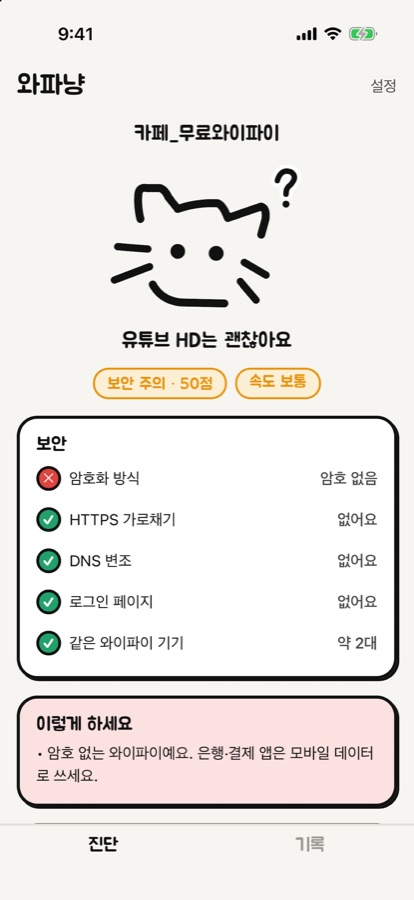
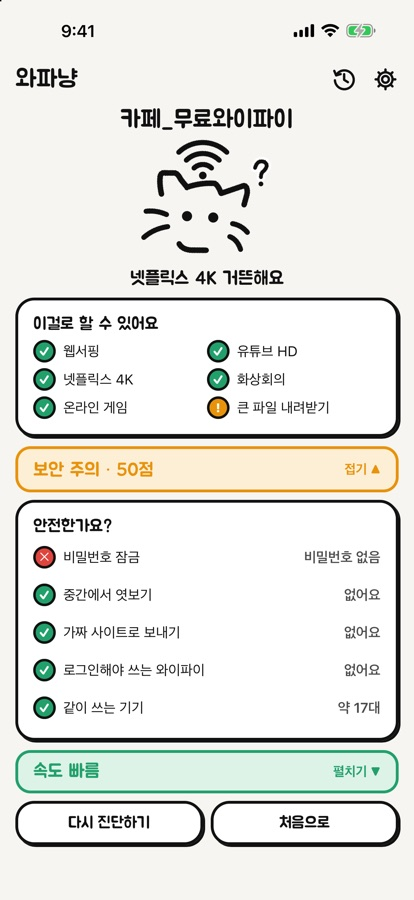
fix(wapanyang): 고양이와 화면 캡처를 앱 1.1.1 그림으로 바꾼다
- Mascot: 머리 위 와이파이 막대, 거친 마커, 물결 수염, 짧은 턱(앱 mascotSvg.ts 와 같은 좌표)
- 첫 화면 데모: 속도에 따라 막대 수가 바뀐다(1·2·3칸)
- 화면 캡처 4장을 새 화면(첫 화면·검사 중·결과·카페)으로 바꾸고 옛 speed.jpg 를 지운다
- 문의 문구의 "아직 스토어에 안 올라갔다"를 iPhone 출시·Android 준비 중으로 고친다

diff --git a/src/app/wapanyang/Mascot.tsx b/src/app/wapanyang/Mascot.tsx
@@ -1,11 +1,16 @@
 /**
- * 앱 마스코트 낙서 고양이 — 얼굴만 그리고, 표정이 보안 등급이다.
+ * 앱 마스코트 낙서 고양이 — 표정이 보안 등급, 머리 위 와이파이 막대가 속도다.
  *
- * 앱의 `src/core/mascotSvg.ts` 와 같은 좌표와 틀(viewBox 14 0 166 124)을 React SVG 로 옮겼다. 앱 그림을 고치면 여기도 고친다.
+ * 앱의 `src/core/mascotSvg.ts` 와 같은 좌표와 틀(viewBox 14 -22 166 146)을 React SVG 로 옮겼다. 앱 그림을 고치면 여기도 고친다.
+ * 2026-10-13 앱 1.1.1 그림: 거친 마커(선마다 불규칙 점선을 한 겹 더), 물결 수염, 짧은 턱.
  */
+import { Fragment } from "react";
+
 import { C } from "./palette";
 
 export type Mood = "neutral" | "happy" | "puzzled" | "shocked";
+/** 0 못 잼 · 1 느림 · 2 유튜브 HD · 3 넷플릭스 4K */
+export type Bars = 0 | 1 | 2 | 3;
 
 const LINE = {
   fill: "none",
@@ -14,32 +19,66 @@ const LINE = {
   strokeLinejoin: "round",
 } as const;
 
+/** 앱 mascotSvg.ts 의 ROUGH 와 같다. */
+const ROUGH = { extra: 0.9, dash: "0.3 0.5 0.15 0.8 0.45 0.35 0.2 1 0.6 0.4 0.1 0.7" };
+
+/** 마커 선 하나 = 매끈한 선 + 까끌한 테두리. */
+function Ink({ d, width }: { d: string; width: number }) {
+  return (
+    <>
+      <path d={d} {...LINE} strokeWidth={width} />
+      <path d={d} stroke={C.ink} strokeLinejoin="round" fill="none" strokeWidth={width + ROUGH.extra} strokeDasharray={ROUGH.dash} />
+    </>
+  );
+}
+
 /** 귀 옆에 얹는 낙서(물음표·땀)는 흰 테두리를 먼저 깔아 묻히지 않게 한다. */
 function Halo({ d, width }: { d: string; width: number }) {
   return (
     <>
       <path d={d} {...LINE} stroke={C.card} strokeWidth={width + 6} />
-      <path d={d} {...LINE} strokeWidth={width} />
+      <Ink d={d} width={width} />
     </>
   );
 }
 
-export default function Mascot({ mood = "happy", width = 200 }: { mood?: Mood; width?: number }) {
+/** 정수리 위 (92, 27)를 중심으로 반지름 15·28·41, 좌우 44도 부채꼴. 켜진 막대는 실선, 꺼진 막대는 흐린 점선. */
+function Signal({ bars }: { bars: Bars }) {
+  const cx = 92;
+  const cy = 27;
+  const a = (44 * Math.PI) / 180;
   return (
-    <svg width={width} height={(width * 124) / 166} viewBox="14 0 166 124" aria-hidden>
-      <path
+    <>
+      <circle cx={cx} cy={cy - 2} r={4.5} fill={C.ink} />
+      {[15, 28, 41].map((r, i) => {
+        const dx = +(r * Math.sin(a)).toFixed(1);
+        const y = +(cy - r * Math.cos(a)).toFixed(1);
+        const d = `M${(cx - dx).toFixed(1)} ${y} A${r} ${r} 0 0 1 ${(cx + dx).toFixed(1)} ${y}`;
+        return (
+          <Fragment key={r}>
+            {i < bars ? <Ink d={d} width={6} /> : <path d={d} {...LINE} strokeWidth={6} strokeDasharray="1 9" opacity={0.45} />}
+          </Fragment>
+        );
+      })}
+    </>
+  );
+}
+
+export default function Mascot({ mood = "happy", bars = 3, width = 200 }: { mood?: Mood; bars?: Bars; width?: number }) {
+  return (
+    <svg width={width} height={(width * 146) / 166} viewBox="14 -22 166 146" aria-hidden>
+      <Signal bars={bars} />
+      <Ink
         d="M43 47 Q40.5 36 41.4 26.8 Q42 21 48 22 L58.5 22 Q62.5 22.7 65.7 29.5 L73.3 38.9 Q89 33.5 105.7 34.3 Q110 36 113.8 46.2 L140.8 37 Q145.5 38 144.5 47 L141 59.7"
-        {...LINE}
-        strokeWidth={6.5}
+        width={6.5}
       />
-      <path
-        d="M24.7 69.4 L49 71.3 M22 96.4 L50.4 85.6 M127.3 82.1 L144.9 92.4 M124 97.5 L136.8 112.6"
-        {...LINE}
-        strokeWidth={6}
+      <Ink
+        d="M24.7 67.4 Q37 66 49 71.3 M22 98.4 Q34 88 50.4 85.6 M127.3 82.1 Q138 84 144.9 92.4 M124 97.5 Q133 101 136.8 112.6"
+        width={6}
       />
 
       {mood === "happy" ? (
-        <path d="M67 77 Q73 67 79 77 M98 78 Q104 68 110 78" {...LINE} strokeWidth={5.5} />
+        <Ink d="M67 77 Q73 67 79 77 M98 78 Q104 68 110 78" width={5.5} />
       ) : mood === "shocked" ? (
         <>
           <circle cx={73.3} cy={73.2} r={8} fill={C.card} stroke={C.ink} strokeWidth={4} />
@@ -57,7 +96,7 @@ export default function Mascot({ mood = "happy", width = 200 }: { mood?: Mood; w
       {mood === "shocked" ? (
         <ellipse cx={86} cy={108} rx={4.5} ry={5.5} fill={C.card} stroke={C.ink} strokeWidth={4} />
       ) : (
-        <path d="M53 100 Q60 113 76 114.5 L111 115.3" {...LINE} strokeWidth={6.5} />
+        <Ink d="M64 106 Q68 113 79 113.5 L96 113.6" width={6.5} />
       )}
 
       {mood === "puzzled" && (

diff --git a/src/app/wapanyang/page.tsx b/src/app/wapanyang/page.tsx
@@ -21,10 +21,10 @@ export const metadata: Metadata = {
 const CONTACT = "contact@joowonkoh.com";
 
 const SHOTS = [
-  { src: "/wapanyang/result.jpg", alt: "웃는 고양이와 보안 안전 등급, 보안 항목 다섯 개가 보이는 진단 결과 화면", caption: "안전해요" },
-  { src: "/wapanyang/cafe.jpg", alt: "물음표를 띄운 고양이와 암호 없는 와이파이 경고, 할 일이 보이는 화면", caption: "공용 와이파이 주의" },
-  { src: "/wapanyang/measuring.jpg", alt: "실시간 다운로드 속도와 진행 단계가 보이는 측정 화면", caption: "속도 재는 중" },
-  { src: "/wapanyang/speed.jpg", alt: "다운로드·업로드·핑·지터와 용도별 판정이 보이는 화면", caption: "이걸로 뭘 할 수 있나" },
+  { src: "/wapanyang/home.jpg", alt: "와이파이 이름 아래 머리에 와이파이 막대를 단 고양이와 진단하기 버튼이 보이는 첫 화면", caption: "한 번 누르면 끝" },
+  { src: "/wapanyang/measuring.jpg", alt: "고양이가 돋보기를 들고 검사하는 동안 진행 단계와 진행 막대가 보이는 화면", caption: "검사 중이에요" },
+  { src: "/wapanyang/result.jpg", alt: "막대 세 칸을 단 웃는 고양이와 넷플릭스 4K 거뜬해요, 용도별 판정과 보안 안전 등급이 보이는 결과 화면", caption: "안전하고 빨라요" },
+  { src: "/wapanyang/cafe.jpg", alt: "물음표를 띄운 고양이와 보안 주의 등급, 비밀번호 잠금 없음 경고가 보이는 카페 와이파이 결과 화면", caption: "공용 와이파이 주의" },
 ];
 
 const STEPS = [
@@ -155,9 +155,8 @@ export default function WapanyangPage() {
         <Reveal>
           <Eyebrow>문의 및 지원</Eyebrow>
           <p className="max-w-[52ch] text-[15px] leading-[1.8] break-keep" style={{ color: C.inkSoft }}>
-            아직 스토어에 올라가지 않았고, 출시를 준비하고 있습니다. 올라가면 이
-            페이지에 내려받는 곳을 답니다. 결과가 이상하거나 궁금한 점이 있으면 아래
-            이메일로 알려 주세요. 휴대폰 기종과 운영체제 버전을 함께 적어 주시면 더
+            iPhone 은 App Store 에서 무료로 받을 수 있고, Android 는 출시를 준비하고
+            있습니다. 결과가 이상하거나 궁금한 점이 있으면 아래 이메일로 알려 주세요. 휴대폰 기종과 운영체제 버전을 함께 적어 주시면 더
             빨리 고칠 수 있습니다.
           </p>
           <div className="mt-5 flex flex-wrap gap-2.5">

diff --git a/src/app/wapanyang/Hero.tsx b/src/app/wapanyang/Hero.tsx
@@ -3,7 +3,7 @@
 import { motion } from "motion/react";
 import { useState } from "react";
 
-import Mascot, { type Mood } from "./Mascot";
+import Mascot, { type Bars, type Mood } from "./Mascot";
 import { EASE } from "./motion";
 import { C, CUTE, STICKER } from "./palette";
 
@@ -35,6 +35,11 @@ function headline(mbps: number): string {
   if (mbps >= 5) return "유튜브 HD는 괜찮아요";
   if (mbps >= 3) return "웹서핑 정도는 돼요";
   return "많이 느려요";
+}
+
+/** 앱의 signalBars 와 같다: 넷플릭스 4K 3칸, 유튜브 HD 2칸, 그 아래 1칸. */
+function bars(mbps: number): Bars {
+  return mbps >= 25 ? 3 : mbps >= 5 ? 2 : 1;
 }
 
 function Chip({ on, onClick, children }: { on: boolean; onClick: () => void; children: React.ReactNode }) {
@@ -75,7 +80,7 @@ function CatDemo() {
         </span>
       </div>
       <div className="mt-2 flex justify-center">
-        <Mascot mood={g.mood} width={240} />
+        <Mascot mood={g.mood} bars={bars(mbps)} width={240} />
       </div>
       <p className="mt-3 text-[13px]" style={{ color: C.inkSoft }}>
         다운로드 속도
